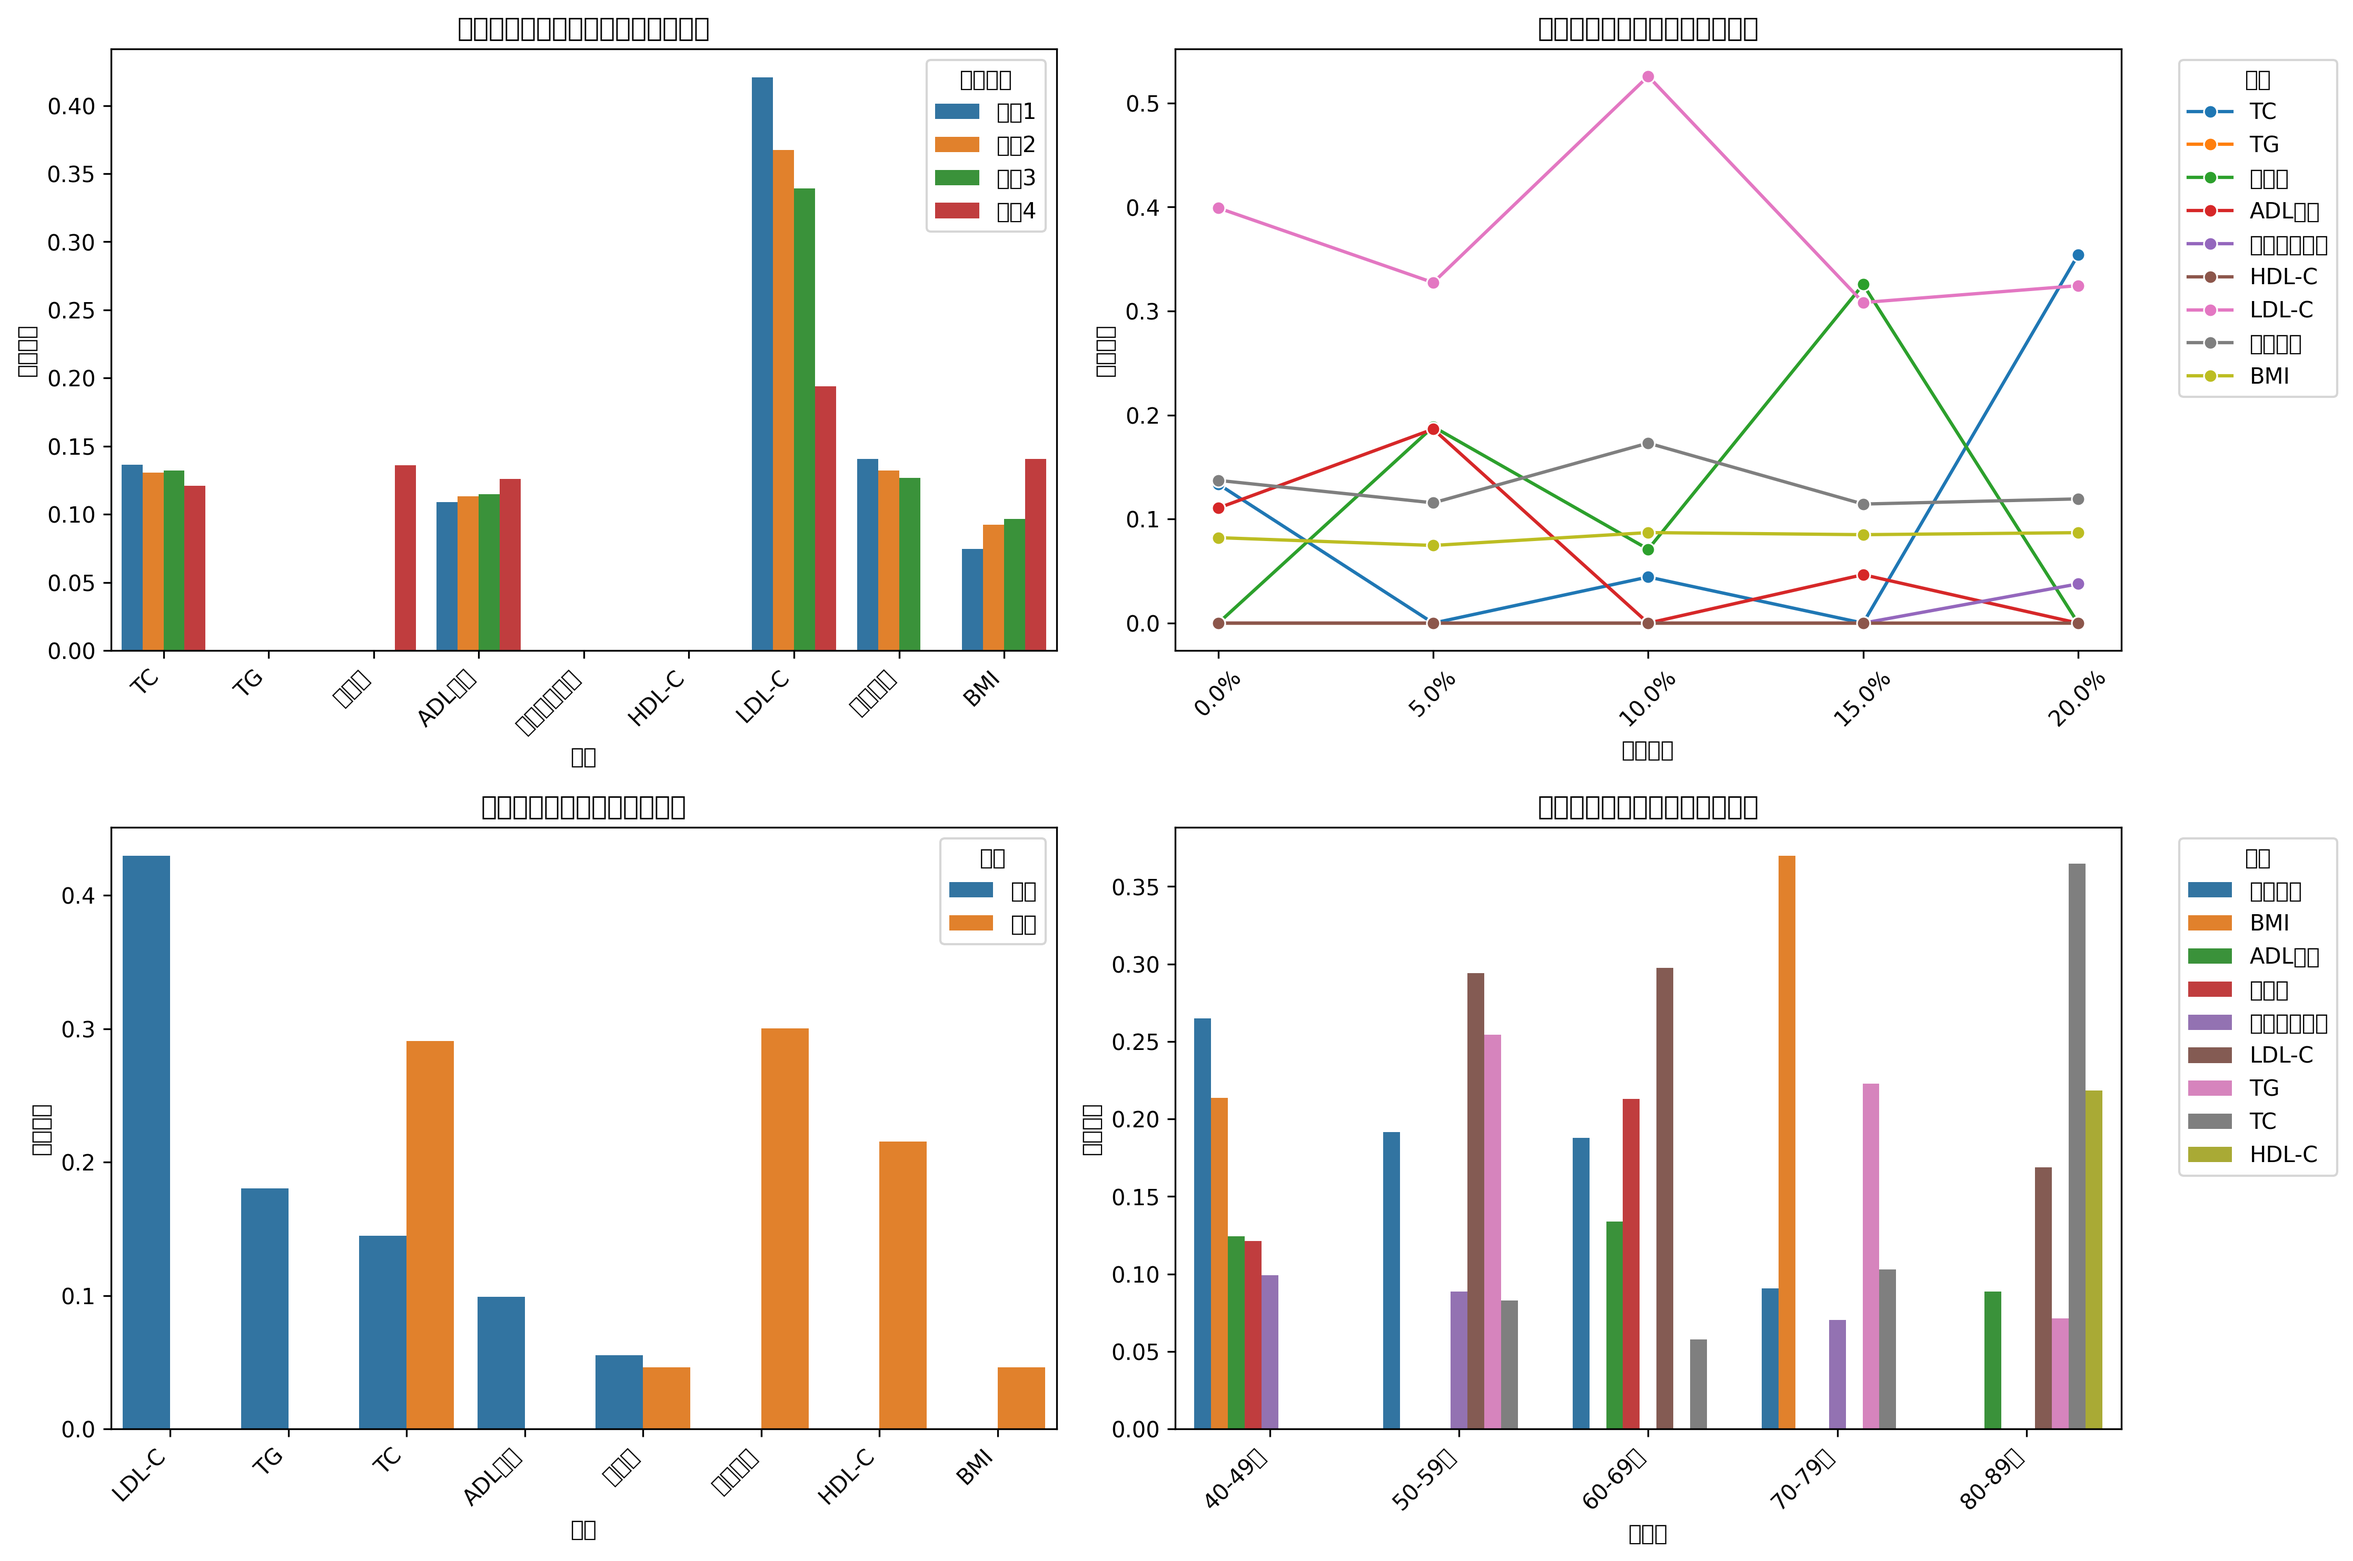
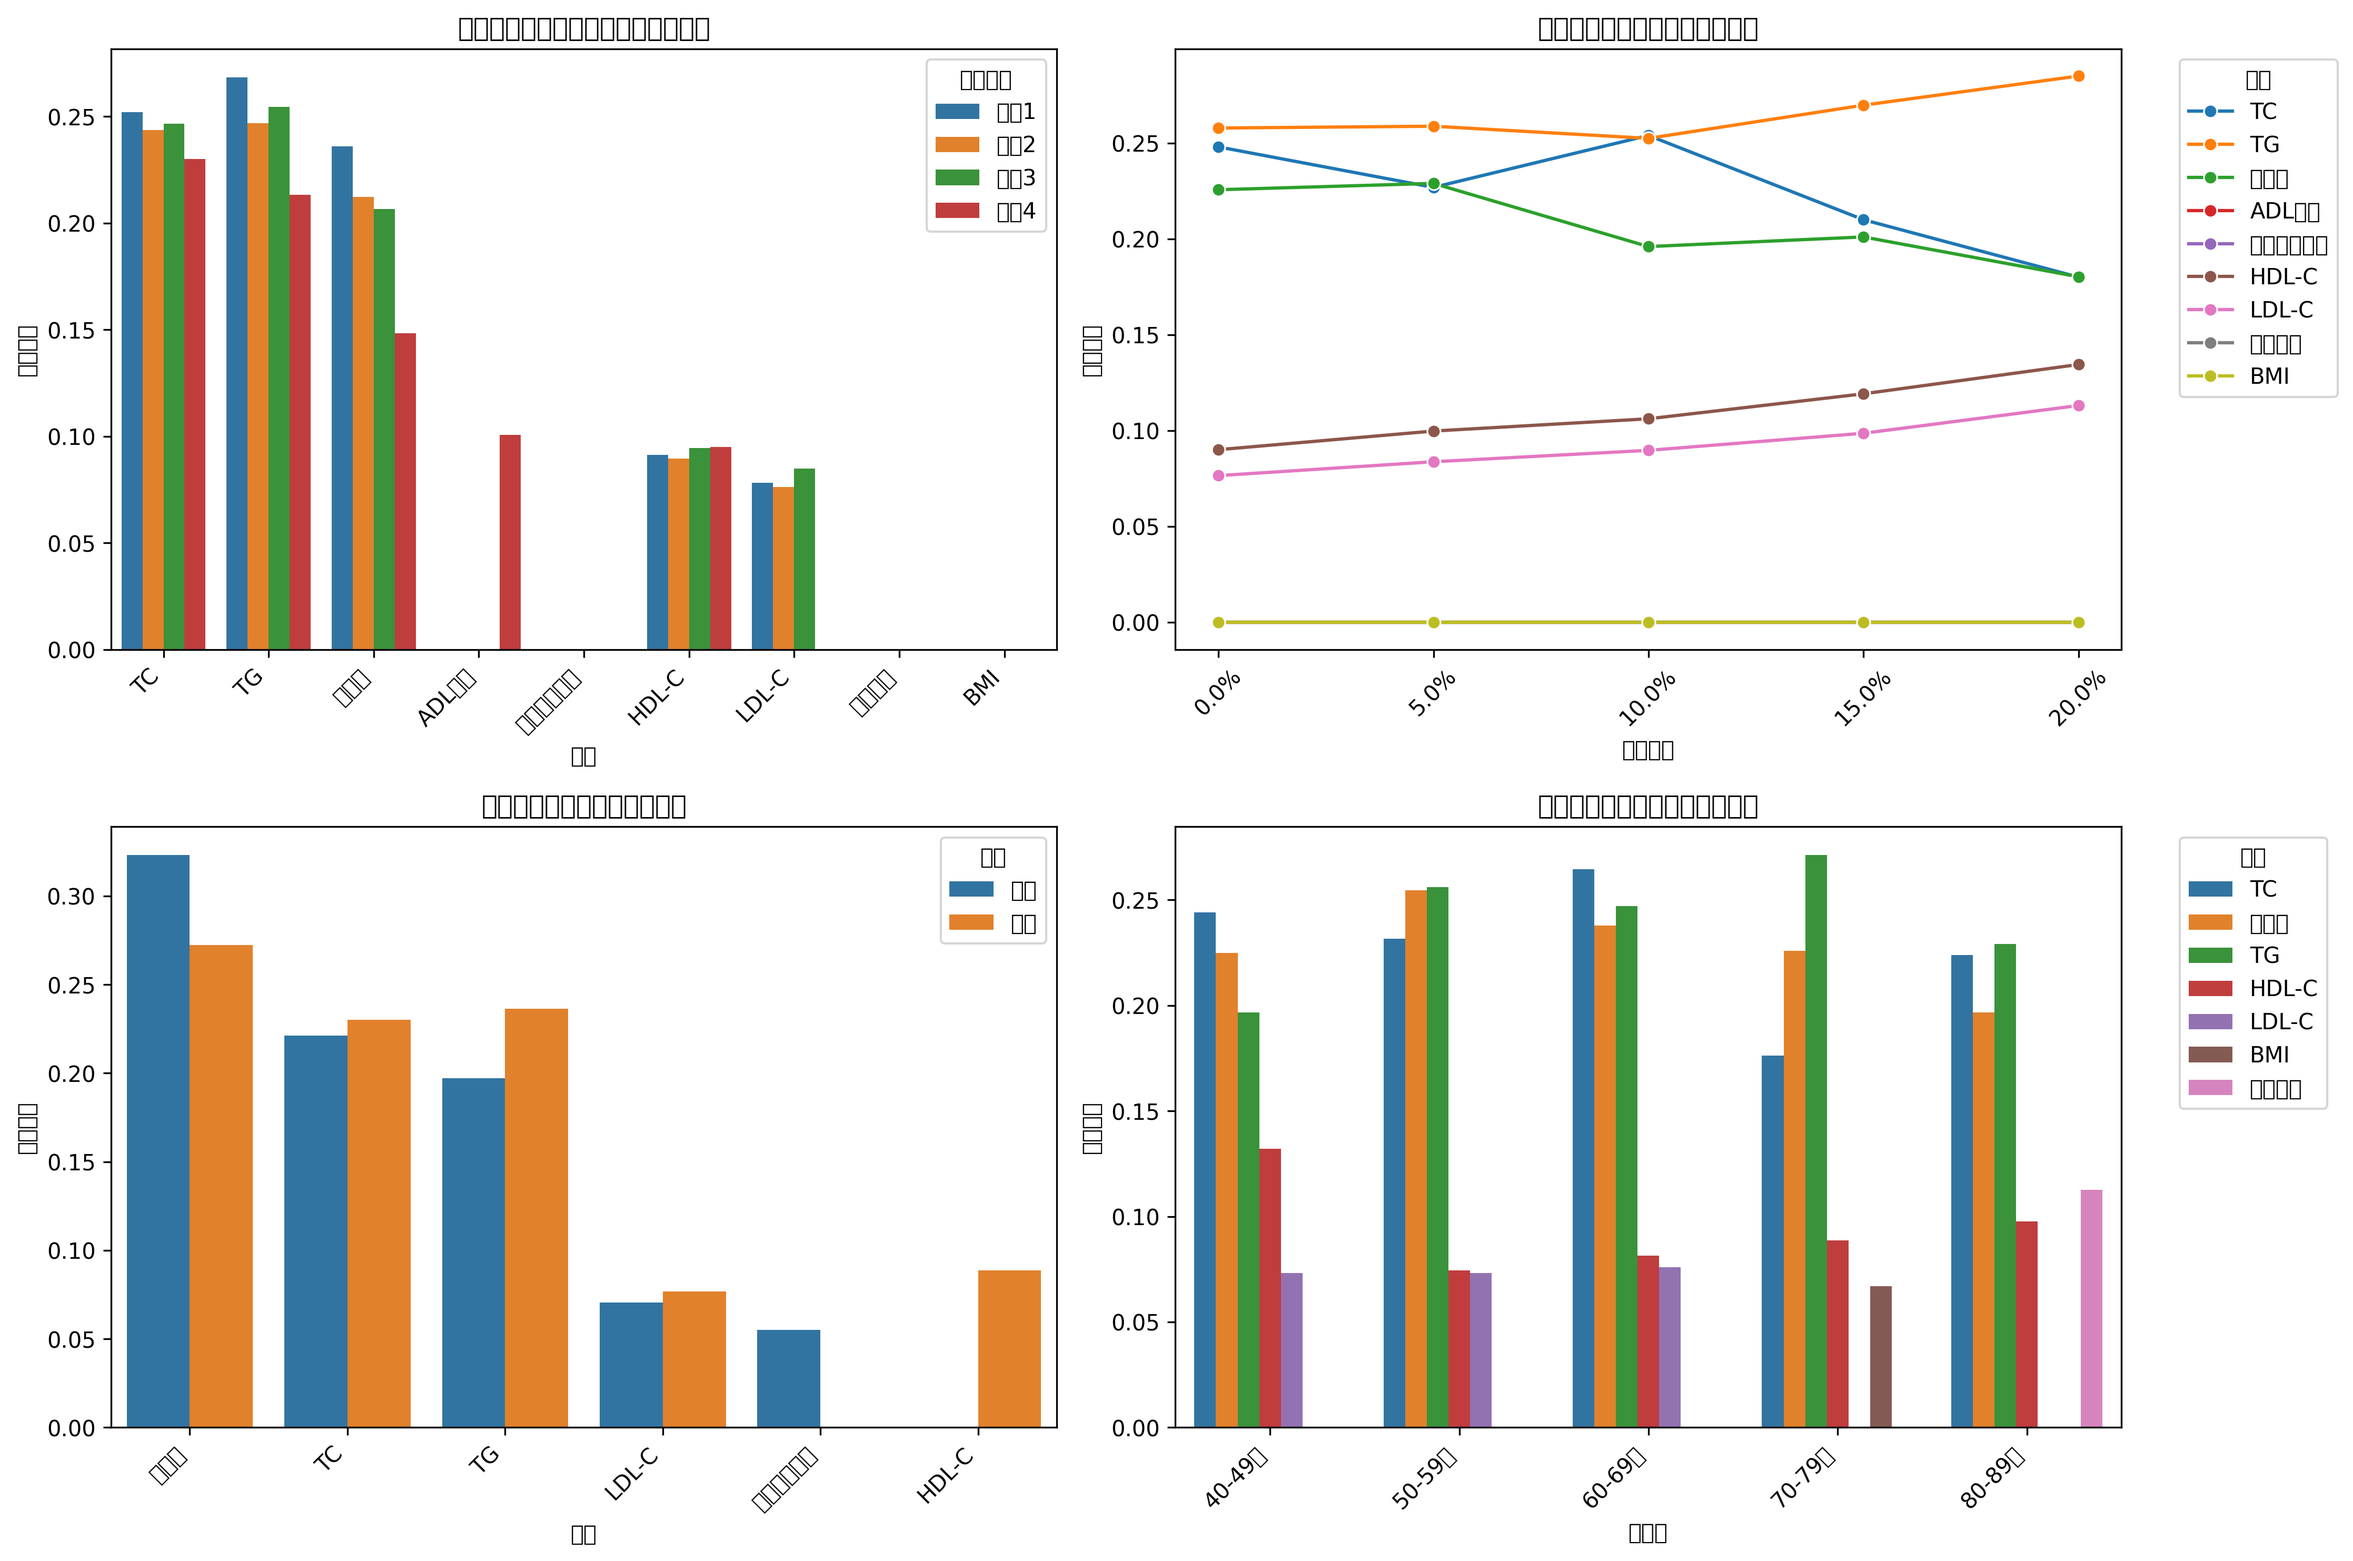
feat: 搭建项目架构

diff --git a/Project_mat/sensitivity_analysis_problem1.py b/Project_mat/sensitivity_analysis_problem1.py
@@ -10,44 +10,32 @@ from sklearn.cross_decomposition import PLSRegression
 plt.rcParams['font.sans-serif'] = ['SimHei']
 plt.rcParams['axes.unicode_minus'] = False
 
-# 模拟数据 - 基于分析报告的统计特征
-def generate_realistic_data():
-    """生成符合实际分析报告统计特征的数据"""
-    np.random.seed(42)
-    n_samples = 1000
+# 加载真实数据
+def load_real_data():
+    """加载真实数据"""
+    import pickle
+    data = pickle.load(open('/workspace/Project_mat/data/processed/preprocessed_data.pkl', 'rb'))
     
-    # 关键指标数据
-    data = {
-        'TC': np.random.normal(5.2, 1.0, n_samples),  # 总胆固醇
-        'TG': np.random.normal(1.7, 0.8, n_samples),  # 甘油三酯
-        '血尿酸': np.random.normal(360, 80, n_samples),  # 血尿酸
-        'ADL总分': np.random.randint(0, 100, n_samples),  # ADL总分
-        '活动量表总分': np.random.randint(0, 200, n_samples),  # 活动量表总分
-        'HDL-C': np.random.normal(1.4, 0.3, n_samples),  # 高密度脂蛋白
-        'LDL-C': np.random.normal(3.2, 0.8, n_samples),  # 低密度脂蛋白
-        '空腹血糖': np.random.normal(5.6, 1.0, n_samples),  # 空腹血糖
-        'BMI': np.random.normal(24, 3, n_samples),  # BMI
-        
-        # 性别和年龄
-        '性别': np.random.randint(0, 2, n_samples),  # 0=男, 1=女
-        '年龄': np.random.randint(40, 90, n_samples),  # 40-89岁
-        
-        # 九种体质得分
-        '平和质': np.random.randint(0, 100, n_samples),
-        '气虚质': np.random.randint(0, 100, n_samples),
-        '阳虚质': np.random.randint(0, 100, n_samples),
-        '痰湿质': np.random.randint(0, 100, n_samples),
-        '湿热质': np.random.randint(0, 100, n_samples),
-        '血瘀质': np.random.randint(0, 100, n_samples),
-        '气郁质': np.random.randint(0, 100, n_samples),
-        '阴虚质': np.random.randint(0, 100, n_samples),
-        '特禀质': np.random.randint(0, 100, n_samples),
-        
-        # 高血脂标签
-        '高血脂症二分类标签': np.random.randint(0, 2, n_samples)
+    # 重命名列以匹配分析需求
+    rename_map = {
+        'TC（总胆固醇）': 'TC',
+        'TG（甘油三酯）': 'TG',
+        'HDL-C（高密度脂蛋白）': 'HDL-C',
+        'LDL-C（低密度脂蛋白）': 'LDL-C',
+        '活动量表总分（ADL总分+IADL总分）': '活动量表总分'
     }
+    data = data.rename(columns=rename_map)
     
-    return pd.DataFrame(data)
+    # 处理年龄数据
+    if '年龄' not in data.columns:
+        # 如果年龄组是整数，直接使用
+        if pd.api.types.is_integer_dtype(data['年龄组']):
+            data['年龄'] = data['年龄组'].astype(float)
+        else:
+            # 否则尝试提取数字
+            data['年龄'] = data['年龄组'].astype(str).str.extract('(\d+)').astype(float)
+    
+    return data
 
 # 计算综合评分
 def calculate_comprehensive_score(data, weights=None):
@@ -107,8 +95,8 @@ def calculate_comprehensive_score(data, weights=None):
 # 敏感性分析
 def sensitivity_analysis():
     """进行敏感性分析"""
-    # 生成数据
-    data = generate_realistic_data()
+    # 加载真实数据
+    data = load_real_data()
     
     # 1. 权重敏感性分析
     print("1. 权重敏感性分析")
@@ -159,17 +147,18 @@ def sensitivity_analysis():
     
     # 4. 年龄分组敏感性分析
     print("\n4. 年龄分组敏感性分析")
-    age_groups = [
-        (40, 49, "40-49岁"),
-        (50, 59, "50-59岁"),
-        (60, 69, "60-69岁"),
-        (70, 79, "70-79岁"),
-        (80, 89, "80-89岁")
-    ]
+    # 年龄组映射
+    age_group_map = {
+        1: "40-49岁",
+        2: "50-59岁",
+        3: "60-69岁",
+        4: "70-79岁",
+        5: "80-89岁"
+    }
     
     age_results = []
-    for min_age, max_age, label in age_groups:
-        age_data = data[(data['年龄'] >= min_age) & (data['年龄'] <= max_age)]
+    for age_code, label in age_group_map.items():
+        age_data = data[data['年龄组'] == age_code]
         if len(age_data) > 10:
             scores, _, _, _ = calculate_comprehensive_score(age_data)
             top5 = sorted(scores.items(), key=lambda x: x[1], reverse=True)[:5]
